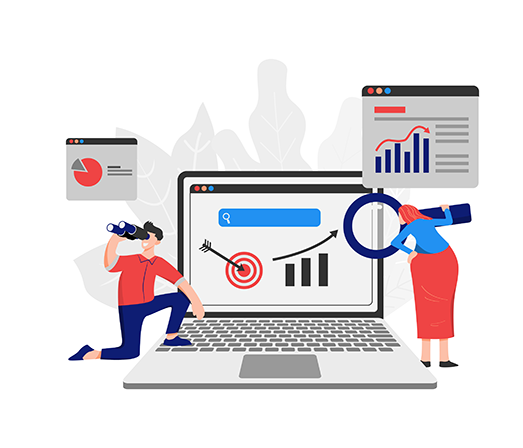
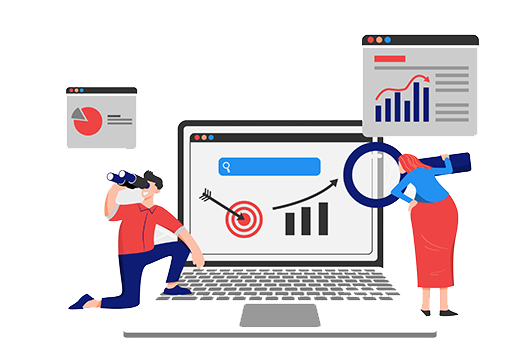
Minor fixes

Changed region(s): [[0.1224, 0.0932, 0.9178, 0.9633]]

diff --git a/src/assets/scss/theme/_style.scss b/src/assets/scss/theme/_style.scss
@@ -852,7 +852,7 @@ section {
     a {
       transition: 0.5s;
       img {
-        filter: brightness(0);
+        // filter: brightness(0);
         &.wedding-brand {
           filter: grayscale(100);
         }
@@ -863,6 +863,11 @@ section {
           filter: unset;
         }
       }
+    }
+    .owl-carousel .owl-stage {
+      align-items: center;
+      display: flex;
+      position: relative;
     }
   }
 }
@@ -3268,7 +3273,7 @@ booking section end
   }
   h2 {
     font-size: calc(18px + (30 - 18) * ((100vw - 300px) / (1920 - 300)));
-    color: $secondary;
+    color: #10266b;
     margin-top: -5px;
     margin-bottom: -17px;
   }
@@ -7057,13 +7062,13 @@ saas1 css end
     background-repeat: no-repeat;
     overflow: hidden;
     .set-center-div {
-      min-height: 555px;
+      min-height: 300px;
       position: relative;
       .side-img {
         position: absolute;
-        right: -14%;
+        right: 0%;
         height: unset;
-        top: 50%;
+        top: 45%;
         transform: translate(0, -50%);
       }
     }
@@ -7410,7 +7415,7 @@ event css start
     }
     &::before {
       content: "";
-      background-image: url("/assets/images/landing/Contact Us.png");
+      // background-image: url("/assets/images/landing/Contact Us.png");
       top: 0;
       opacity: 0.9;
       height: 100%;

diff --git a/src/app/shared/components/footer/footer.component.html b/src/app/shared/components/footer/footer.component.html
@@ -9,7 +9,8 @@
                             <h3>About Us</h3>
                         </div>
                         <div class="footer-contant">
-                            <img alt="" class="img-fluid footer-logo" src="assets/images/landing/pb_logo_new.png">
+                            <h5 class="footer-headings">About Us</h5>
+                            <!-- <img alt="" class="img-fluid footer-logo" src="assets/images/landing/pb_logo_new.png"> -->
                             <div class="footer-para">
                                 <p>A creative haven where ideas come to life: our design studio crafts innovative concepts and visually stunning solutions, transforming visions into reality.</p>
                             </div>

diff --git a/src/app/landing/client-section/client-section.component.ts b/src/app/landing/client-section/client-section.component.ts
@@ -12,8 +12,8 @@ export class ClientSectionComponent implements OnInit {
   }
   brands = [
     { img: "assets/images/agency/slider/tringapp.png" },
-    { img: "assets/images/app_landing2/brand/2.png" },
-    { img: "assets/images/app_landing2/brand/3.png" },
+    { img: "assets/images/agency/slider/dentalLogo.png" },
+    { img: "assets/images/agency/slider/picaggo-logo.png" },
     { img: "assets/images/app_landing2/brand/4.png" },
     { img: "assets/images/app_landing2/brand/5.png" }
   ]

diff --git a/src/app/landing/client-section/client-section.component.html b/src/app/landing/client-section/client-section.component.html
@@ -1,5 +1,5 @@
 <!--brand slider start-->
-<section class="app2 brand-sliders p-t-0">
+<section class="app2 brand-sliders">
     <div class="container">
         <div class="row">
             <div class="col-md-10 offset-md-1">

diff --git a/src/assets/scss/landing.scss b/src/assets/scss/landing.scss
@@ -213,7 +213,7 @@ header {
         text-transform: uppercase;
         font-weight: 500;
         &.active {
-          color: $black;
+          color: #10266b;
           transition: all 0.5s ease;
         }
       }

diff --git a/src/app/landing/client-section/client-section.component.scss b/src/app/landing/client-section/client-section.component.scss
@@ -1,0 +1,5 @@
+.owl-carousel .owl-stage {
+    align-items: center;
+    display: flex;
+    position: relative;
+}

diff --git a/src/app/service/service.component.scss b/src/app/service/service.component.scss
@@ -4,3 +4,6 @@
     font-weight: 500;
     text-transform: uppercase;
 }
+.quick-sol {
+    padding: 20px 0;
+}
